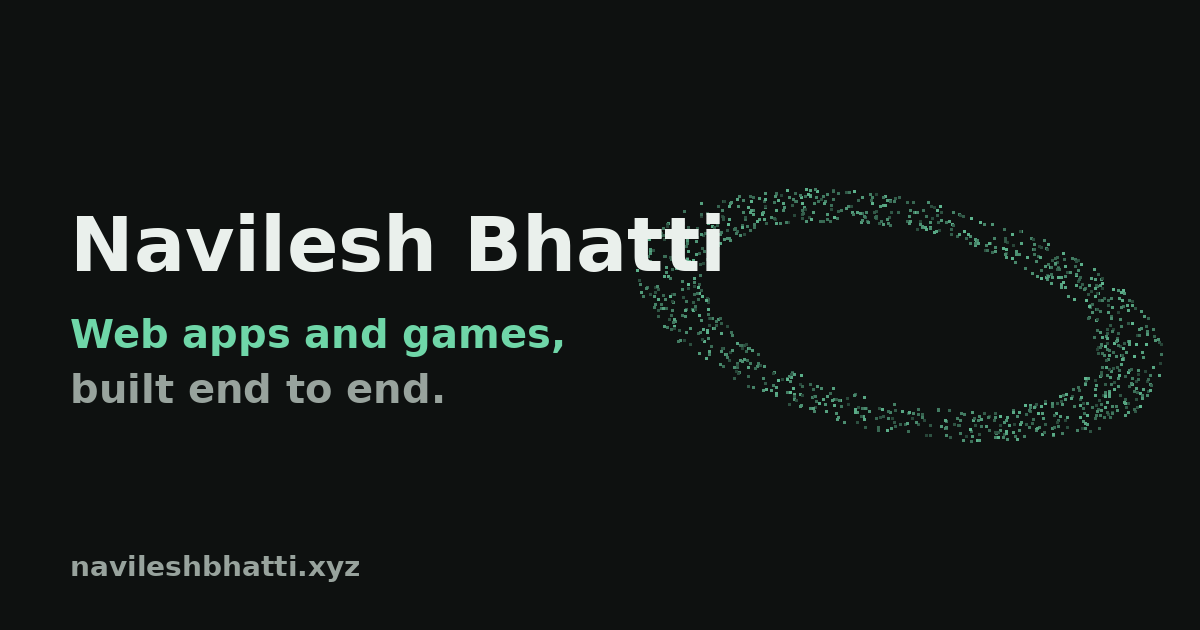
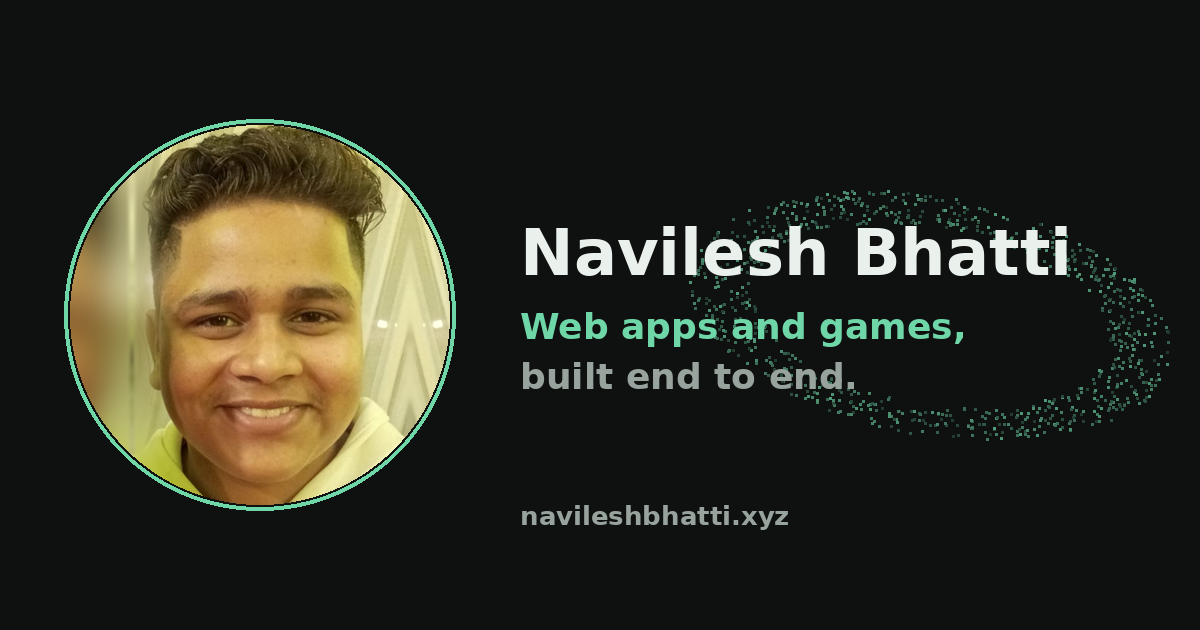
SEO AGO etc for more ai visibility

Changed region(s): [[0.0308, 0.181, 0.9867, 0.8143], [0.0617, 0.8746, 0.3083, 0.9349], [0.4317, 0.7841, 0.6783, 0.8444]]

diff --git a/index.html b/index.html
@@ -11,7 +11,9 @@
 <meta name="robots" content="index, follow">
 <meta name="theme-color" content="#0e1110">
 <link rel="canonical" href="https://navileshbhatti.xyz/">
-<link rel="icon" href="/img/favicon.svg" type="image/svg+xml">
+<link rel="icon" href="/favicon.ico" sizes="48x48">
+<link rel="icon" href="/img/favicon.svg" type="image/svg+xml" sizes="any">
+<link rel="icon" href="/img/icon-192.png" type="image/png" sizes="192x192">
 <link rel="apple-touch-icon" href="/img/apple-touch-icon.png">
 <link rel="manifest" href="/site.webmanifest">
 <meta property="og:type" content="website">
@@ -29,8 +31,8 @@
 <link rel="stylesheet" href="/css/styles.css">
 <script type="application/ld+json">
 {"@context":"https://schema.org","@graph":[
-{"@type":"WebSite","@id":"https://navileshbhatti.xyz/#site","url":"https://navileshbhatti.xyz/","name":"Navilesh Bhatti"},
-{"@type":"Person","@id":"https://navileshbhatti.xyz/#me","name":"Navilesh Bhatti","url":"https://navileshbhatti.xyz/","image":"https://navileshbhatti.xyz/img/og-image.png","jobTitle":"Web and Game Developer","email":"mailto:navileshbhatti@gmail.com","telephone":"+916284729381","address":{"@type":"PostalAddress","addressLocality":"Rupnagar","addressRegion":"Punjab","addressCountry":"IN"},"knowsAbout":["React","Node.js","Firebase","JavaScript","TypeScript","Game development"],"sameAs":["https://github.com/navilesh-creat","https://www.instagram.com/_navi_49/","https://www.linkedin.com/in/navilesh-bhatti-393982439"]}]}
+{"@type":"WebSite","@id":"https://navileshbhatti.xyz/#site","url":"https://navileshbhatti.xyz/","name":"Navilesh Bhatti","alternateName":["Navilesh Bhatti Portfolio","Navilesh"]},
+{"@type":"Person","@id":"https://navileshbhatti.xyz/#me","name":"Navilesh Bhatti","description":"Student web and game developer from Rupnagar, Punjab, India, building web apps and games with React, Node.js and Firebase.","url":"https://navileshbhatti.xyz/","image":{"@type":"ImageObject","url":"https://navileshbhatti.xyz/img/navilesh-bhatti.jpg","width":800,"height":800,"caption":"Navilesh Bhatti"},"jobTitle":"Web and Game Developer","email":"mailto:navileshbhatti@gmail.com","telephone":"+916284729381","address":{"@type":"PostalAddress","addressLocality":"Rupnagar","addressRegion":"Punjab","addressCountry":"IN"},"knowsAbout":["React","Node.js","Firebase","JavaScript","TypeScript","Game development"],"sameAs":["https://github.com/navilesh-creat","https://www.instagram.com/_navi_49/","https://www.linkedin.com/in/navilesh-bhatti-393982439"]},{"@type":"WebPage","@id":"https://navileshbhatti.xyz/#page","url":"https://navileshbhatti.xyz/","name":"Navilesh Bhatti | Web and Game Developer in Punjab, India","isPartOf":{"@id":"https://navileshbhatti.xyz/#site"},"about":{"@id":"https://navileshbhatti.xyz/#me"},"primaryImageOfPage":{"@type":"ImageObject","url":"https://navileshbhatti.xyz/img/navilesh-bhatti.jpg"},"dateModified":"2026-11-27"},{"@type":"WebApplication","name":"Klyro","url":"https://navilesh-creat.github.io/Klyro/","applicationCategory":"UtilitiesApplication","operatingSystem":"Any (web browser)","description":"Free browser toolkit with 13 tools: PDF merge, image compression, QR codes, JSON and CSV converter and more. No login, and files never leave the device.","author":{"@id":"https://navileshbhatti.xyz/#me"},"offers":{"@type":"Offer","price":"0","priceCurrency":"INR"}},{"@type":"WebApplication","name":"Dominion of Arkenfold community portal","url":"https://navilesh-creat.github.io/Arkenfold-constitution/","applicationCategory":"SocialNetworkingApplication","operatingSystem":"Any (web browser)","description":"Community portal with a searchable constitution reader, a member directory with role badges and announcements, with Firebase sign-in.","author":{"@id":"https://navileshbhatti.xyz/#me"}},{"@type":"FAQPage","@id":"https://navileshbhatti.xyz/#faq","mainEntity":[{"@type":"Question","name":"Who is Navilesh Bhatti?","acceptedAnswer":{"@type":"Answer","text":"Navilesh Bhatti is a student web and game developer from Rupnagar, Punjab, India. He builds web apps and games with React, Node.js and Firebase, and takes on freelance web projects."}},{"@type":"Question","name":"What does Navilesh build?","acceptedAnswer":{"@type":"Answer","text":"Websites, web apps and games. His shipped projects include Klyro, a free browser toolkit with 13 tools whose files never leave the visitor's device, and the Arkenfold community portal, which has a constitution reader, a member directory and announcements."}},{"@type":"Question","name":"Which technologies does he use?","acceptedAnswer":{"@type":"Answer","text":"React, Next.js, TypeScript, JavaScript, Node.js, Express, Python, FastAPI, Firebase, PostgreSQL, MongoDB, Tailwind CSS, Docker and Git."}},{"@type":"Question","name":"Is Navilesh available for freelance work?","acceptedAnswer":{"@type":"Answer","text":"Yes. He is open to freelance web projects. The quickest way to start is the contact form on this page or an email to navileshbhatti@gmail.com."}},{"@type":"Question","name":"What is he working on now?","acceptedAnswer":{"@type":"Answer","text":"A video editor written from scratch. He also took part in Haven, a Hack Club hackathon in Chandigarh."}}]}]}
 </script>
 </head>
 <body>
@@ -134,6 +136,11 @@
     </dl>
   </section>
 
+  <section id="faq" class="wrap">
+    <h2 data-reveal>FAQ</h2>
+    <div class="faq"><details data-reveal><summary>Who is Navilesh Bhatti?</summary><p>Navilesh Bhatti is a student web and game developer from Rupnagar, Punjab, India. He builds web apps and games with React, Node.js and Firebase, and takes on freelance web projects.</p></details><details data-reveal><summary>What does Navilesh build?</summary><p>Websites, web apps and games. His shipped projects include Klyro, a free browser toolkit with 13 tools whose files never leave the visitor's device, and the Arkenfold community portal, which has a constitution reader, a member directory and announcements.</p></details><details data-reveal><summary>Which technologies does he use?</summary><p>React, Next.js, TypeScript, JavaScript, Node.js, Express, Python, FastAPI, Firebase, PostgreSQL, MongoDB, Tailwind CSS, Docker and Git.</p></details><details data-reveal><summary>Is Navilesh available for freelance work?</summary><p>Yes. He is open to freelance web projects. The quickest way to start is the contact form on this page or an email to navileshbhatti@gmail.com.</p></details><details data-reveal><summary>What is he working on now?</summary><p>A video editor written from scratch. He also took part in Haven, a Hack Club hackathon in Chandigarh.</p></details></div>
+  </section>
+
   <section id="contact" class="wrap">
     <h2 data-reveal>Contact</h2>
     <div class="contact">
@@ -163,8 +170,8 @@
 
 <footer class="site-footer">
   <div class="wrap foot">
-    <p>&copy; 2026 Navilesh Bhatti. Last updated <time datetime="2026-11-24">24 November 2026</time>.</p>
-    <p><button id="openPrefs" class="linklike" type="button">Cookie settings</button></p>
+    <p>&copy; 2026 Navilesh Bhatti. Last updated <time datetime="2026-11-27">27 November 2026</time>.</p>
+    <p><a href="/privacy.html">Privacy</a> &middot; <button id="openPrefs" class="linklike" type="button">Cookie settings</button></p>
   </div>
 </footer>
 

diff --git a/privacy.html b/privacy.html
@@ -1,0 +1,31 @@
+<!DOCTYPE html>
+<html lang="en">
+<head>
+<meta charset="UTF-8">
+<meta name="viewport" content="width=device-width, initial-scale=1">
+<script>try{document.documentElement.dataset.theme=localStorage.getItem('nb_theme')||'dark'}catch(e){document.documentElement.dataset.theme='dark'}</script>
+<title>Privacy | Navilesh Bhatti</title>
+<meta name="description" content="What the website of Navilesh Bhatti collects, why, and how to ask for your data to be deleted.">
+<link rel="canonical" href="https://navileshbhatti.xyz/privacy.html">
+<link rel="icon" href="/favicon.ico" sizes="48x48">
+<link rel="icon" href="/img/favicon.svg" type="image/svg+xml" sizes="any">
+<link rel="stylesheet" href="/css/styles.css">
+</head>
+<body>
+<header class="site-header"><div class="wrap bar"><a href="/" class="logo" aria-label="Navilesh Bhatti, home"><img src="/img/favicon.svg" width="28" height="28" alt="">Navilesh Bhatti</a><a class="cta" href="/">Back to home</a></div></header>
+<main class="wrap prose">
+  <h1>Privacy</h1>
+  <p>Last updated <time datetime="2026-11-27">27 November 2026</time>. This site is run by Navilesh Bhatti, Rupnagar, Punjab, India. Contact: <a href="mailto:navileshbhatti@gmail.com">navileshbhatti@gmail.com</a>.</p>
+  <h2>Contact form</h2>
+  <p>If you send a message, I store your name, email address, optional subject and message in a Firebase database (a Google service). I use them only to reply to you. They stay there until I delete them.</p>
+  <h2>Analytics</h2>
+  <p>Analytics cookies are off until you accept them in the cookie banner. If you accept, Google Analytics (through Firebase) counts visits and clicks on links and buttons. You can change your choice at any time with "Cookie settings" in the footer of the home page.</p>
+  <h2>Stored in your browser</h2>
+  <p>Your theme choice (dark or light) and your cookie choice are saved in your browser so the site remembers them. They are not used to track you.</p>
+  <h2>What I do not do</h2>
+  <p>I do not sell your data, show ads, or share your messages with anyone.</p>
+  <h2>Your choices</h2>
+  <p>Email me to see or delete a message you sent, and I will remove it.</p>
+</main>
+</body>
+</html>

diff --git a/css/styles.css b/css/styles.css
@@ -115,5 +115,10 @@ body::before{content:"";position:fixed;inset:0;z-index:-1;pointer-events:none;ba
 @media(max-width:720px){.wrap{padding-left:16px;padding-right:16px}section[id]{padding:40px 16px}.card{padding:18px}
 .grid3{display:flex;overflow-x:auto;scroll-snap-type:x mandatory;gap:14px;margin:20px -16px 0;padding:0 16px 8px;scrollbar-width:none}
 .grid3::-webkit-scrollbar{display:none}.grid3 .card{flex:0 0 78%;scroll-snap-align:start}}
+/* FAQ and prose pages */
+.faq{max-width:760px;display:grid;gap:10px}.faq details{border:1px solid var(--line);border-radius:var(--r);background:var(--surface);padding:0 18px}
+.faq summary{cursor:pointer;padding:16px 0;font-weight:600;list-style:none;display:flex;justify-content:space-between;gap:12px}.faq summary::-webkit-details-marker{display:none}
+.faq summary::after{content:"+";color:var(--accent);font-size:1.3rem;line-height:1}.faq details[open] summary::after{content:"\2212"}.faq details:hover{border-color:var(--accent)}.faq p{margin:0 0 16px;color:var(--muted)}
+.prose{max-width:760px;padding-top:56px;padding-bottom:72px}.prose h1{font-size:2rem;max-width:none}.prose h2{font-size:1.2rem;margin-top:2rem}.prose p,.prose li{color:var(--muted)}
 @media(prefers-reduced-motion:reduce){*,*::before,*::after{transition:none!important;animation:none!important;scroll-behavior:auto!important}}
 @media print{.site-header,.progress,.to-top,.toast,.consent,.skip,.actions,.contact form,.copy,.linklike{display:none!important}body{background:#fff;color:#000}a{color:#000}}

diff --git a/404.html b/404.html
@@ -7,7 +7,8 @@
 <title>Page not found | Navilesh Bhatti</title>
 <meta name="description" content="This page does not exist. Go back to the portfolio of Navilesh Bhatti.">
 <meta name="robots" content="noindex">
-<link rel="icon" href="/img/favicon.svg" type="image/svg+xml">
+<link rel="icon" href="/favicon.ico" sizes="48x48">
+<link rel="icon" href="/img/favicon.svg" type="image/svg+xml" sizes="any">
 <link rel="stylesheet" href="/css/styles.css">
 </head>
 <body>
